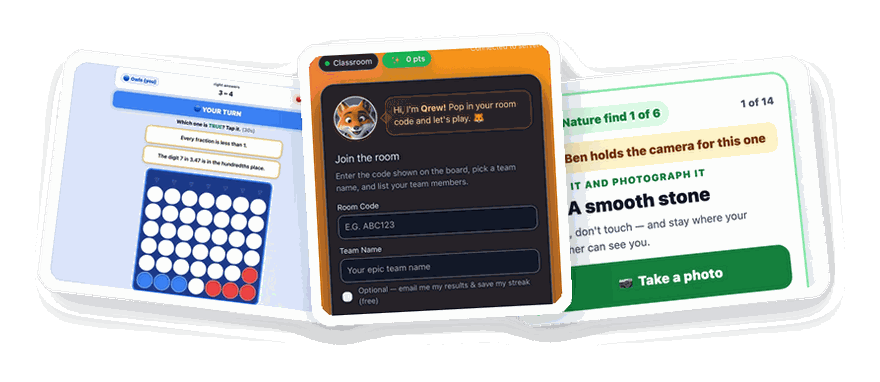
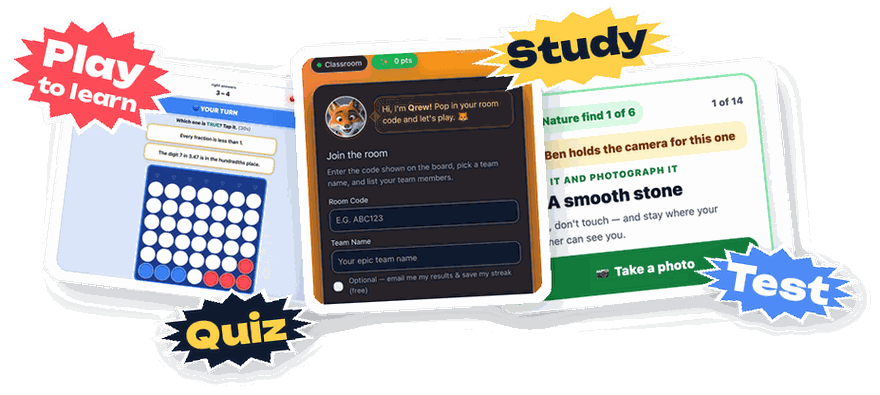
Email strips: Play to learn · Study · Quiz · Test bursting off the screenshots
The six school strips carry four starbursts in Qrewzi's own face (Unbounded): "Play to learn"
(not "Play" — learning games, not just games), Study, Quiz and Test, off the edges so the
screenshots stay readable. The workplace strip keeps its own look. The script's --preview DIR
writes elsewhere, so a change can be looked at before the emails use it.

diff --git a/scripts/make-email-strips.py b/scripts/make-email-strips.py
@@ -13,8 +13,8 @@ it is shown (the email shows it 440 wide) so it is sharp on a phone.
 Which strip goes with which email is backend/services/outreach/rules.js
 EMAIL_STRIPS. Run from qrewzi-web:  python3 scripts/make-email-strips.py
 """
-from PIL import Image, ImageDraw, ImageFilter
-import os
+from PIL import Image, ImageDraw, ImageFilter, ImageFont
+import math, os, random, sys
 
 HERE = os.path.dirname(os.path.abspath(__file__))
 PUB = os.path.join(HERE, "..", "public")
@@ -100,10 +100,93 @@ def strip(names):
     return big
 
 
+# The four things Qrewzi is for, bursting off the screenshots (owner, 2026-11-17: "maybe we need
+# the words … Study, Quizzing, Testing kind of exploding from those screenshots"). One word each,
+# the same form — verbs read at a glance at email size. The workplace strip keeps its own.
+# "Play to learn", not "Play" (owner: "play should not make it seem it is just games, but learning games").
+WORDS = (("Play\nto learn", "#FF4D5B", "#FFFFFF"), ("Study", "#FFD147", "#0B1F3A"), ("Quiz", "#0B1F3A", "#FFD147"), ("Test", "#4F8DF7", "#FFFFFF"))
+WORDS_ON = {k for k in STRIPS if k != "work"}
+FONT = os.path.expanduser("~/Library/Fonts/Unbounded.ttf")
+
+
+def burst(word, fill, ink, size=19 * SCALE, tilt=0, seed=0):
+    """A comic starburst with the word in it: jagged points round an oval sized to the word.
+    A second line ("Play\nto learn") is set smaller under the first, so the big word keeps its punch."""
+    def face(px, weight):
+        f = ImageFont.truetype(FONT, px)
+        try:
+            f.set_variation_by_name(weight)
+        except Exception:
+            pass
+        return f
+    lines = word.split("\n")
+    fonts = [face(size, "Black")] + [face(round(size * 0.58), "ExtraBold") for _ in lines[1:]]
+    boxes = [f.getbbox(t) for f, t in zip(fonts, lines)]
+    gap = 2 * SCALE
+    tw = max(r - l for l, _, r, _ in boxes)
+    th = sum(b - t for _, t, _, b in boxes) + gap * (len(lines) - 1)
+    # Two lines make a block whose corners an oval only reaches if it is roomier.
+    extra = 1 if len(lines) == 1 else 1.3
+    rx, ry = tw / 2 + 13 * SCALE * extra, th / 2 + 11 * SCALE * extra
+    rnd = random.Random(seed)
+    n = 16
+    pts = []
+    for k in range(n * 2):
+        a = math.pi * k / n
+        spike = k % 2 == 0
+        f = (1.0 + rnd.uniform(0.04, 0.14)) if spike else 0.84
+        pts.append((rx * f * math.cos(a), ry * f * math.sin(a)))
+    pad = 10 * SCALE
+    wpx, hpx = round(2 * rx * 1.25 + 2 * pad), round(2 * ry * 1.25 + 2 * pad)
+    img = Image.new("RGBA", (wpx, hpx), (0, 0, 0, 0))
+    d = ImageDraw.Draw(img)
+    cx, cy = wpx / 2, hpx / 2
+    poly = [(cx + x, cy + y) for x, y in pts]
+    d.polygon(poly, fill="#FFFFFF")  # the white rim, so it lifts off any screenshot
+    inner = [(cx + x * 0.9, cy + y * 0.9) for x, y in pts]
+    d.polygon(inner, fill=fill)
+    y = cy - th / 2
+    for f, text, (l, t, r, b) in zip(fonts, lines, boxes):
+        d.text((cx - (r - l) / 2 - l, y - t), text, font=f, fill=ink)
+        y += (b - t) + gap
+    img = img.rotate(tilt, resample=Image.BICUBIC, expand=True)
+    return img
+
+
+def with_words(img, seed=7):
+    """The strip with the four words bursting off its edges, on a canvas grown to hold them."""
+    top, bottom, side = 22 * SCALE, 22 * SCALE, 30 * SCALE
+    canvas = Image.new("RGBA", (img.width + 2 * side, img.height + top + bottom), (0, 0, 0, 0))
+    canvas.alpha_composite(img, (side, top))
+    W2, H2 = canvas.size
+    # Off the edges of the stack, staggered rather than a frame, each tilted its own way.
+    spots = [(0.1, 0.13, -12), (0.66, 0.07, 8), (0.3, 0.92, 6), (0.91, 0.72, -9)]
+    placed = []
+    for i, ((word, fill, ink), (fx, fy, tilt)) in enumerate(zip(WORDS, spots)):
+        b = burst(word, fill, ink, tilt=tilt, seed=seed + i)
+        x, y = round(fx * W2 - b.width / 2), round(fy * H2 - b.height / 2)
+        placed.append((b, max(0, min(W2 - b.width, x)), max(0, min(H2 - b.height, y))))
+    for b, x, y in placed:
+        sh, pad = shadow(b, blur=4 * SCALE, alpha=70)
+        sx, sy = x - pad + 2 * SCALE, y - pad + 3 * SCALE
+        if sx >= 0 and sy >= 0:
+            canvas.alpha_composite(sh, (sx, sy))
+        canvas.alpha_composite(b, (x, y))
+    l, t, r, bt = canvas.getbbox()
+    canvas = canvas.crop((max(0, l - 2), max(0, t - 2), min(W2, r + 2), min(H2, bt + 2)))
+    if canvas.width > W:
+        canvas = canvas.resize((W, round(canvas.height * W / canvas.width)), Image.LANCZOS)
+    return canvas
+
+
 if __name__ == "__main__":
+    # --preview DIR: write there instead of public/email (nothing the live emails use changes).
+    dest = sys.argv[sys.argv.index("--preview") + 1] if "--preview" in sys.argv else os.path.join(PUB, "email")
     for key, names in STRIPS.items():
         img = strip(names)
-        out = os.path.join(PUB, "email", f"strip-{key}.png")
+        if key in WORDS_ON:
+            img = with_words(img)
+        out = os.path.join(dest, f"strip-{key}.png")
         q = img.quantize(colors=256, method=Image.Quantize.FASTOCTREE, dither=Image.Dither.NONE)
         # Reducing to 256 colours folds the empty background in with the faint
         # tail of the shadows, and it came out 3/255 opaque: a grey box round
